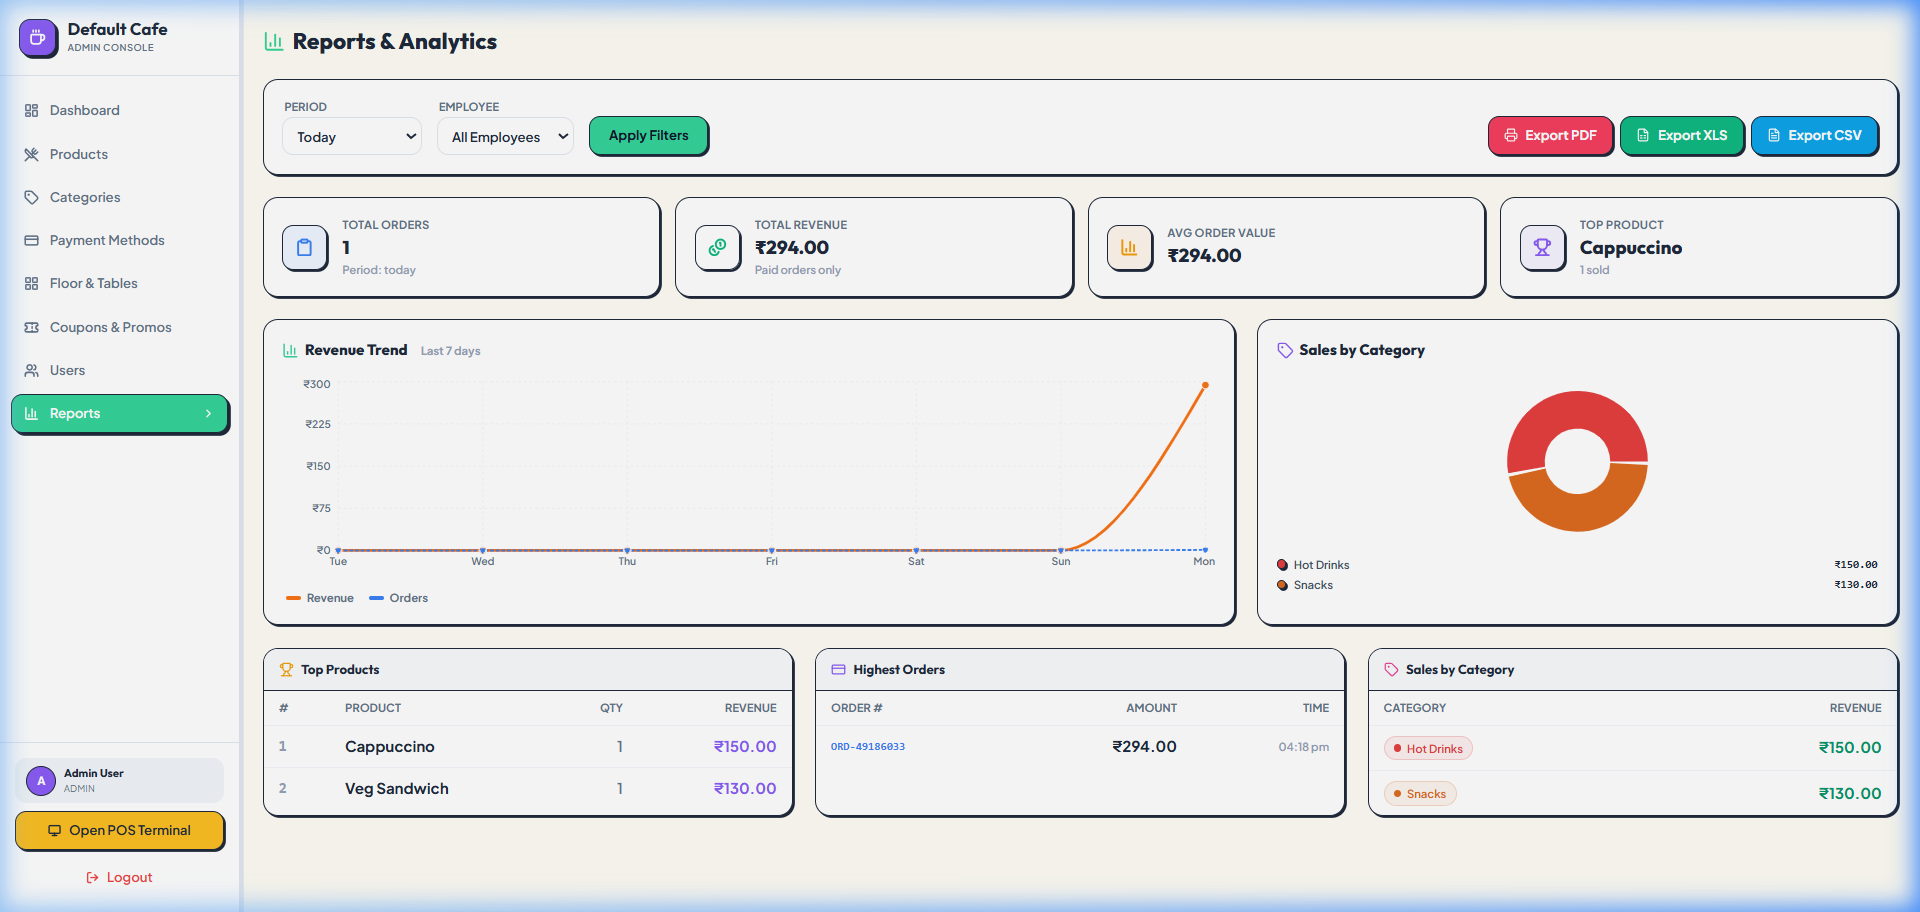
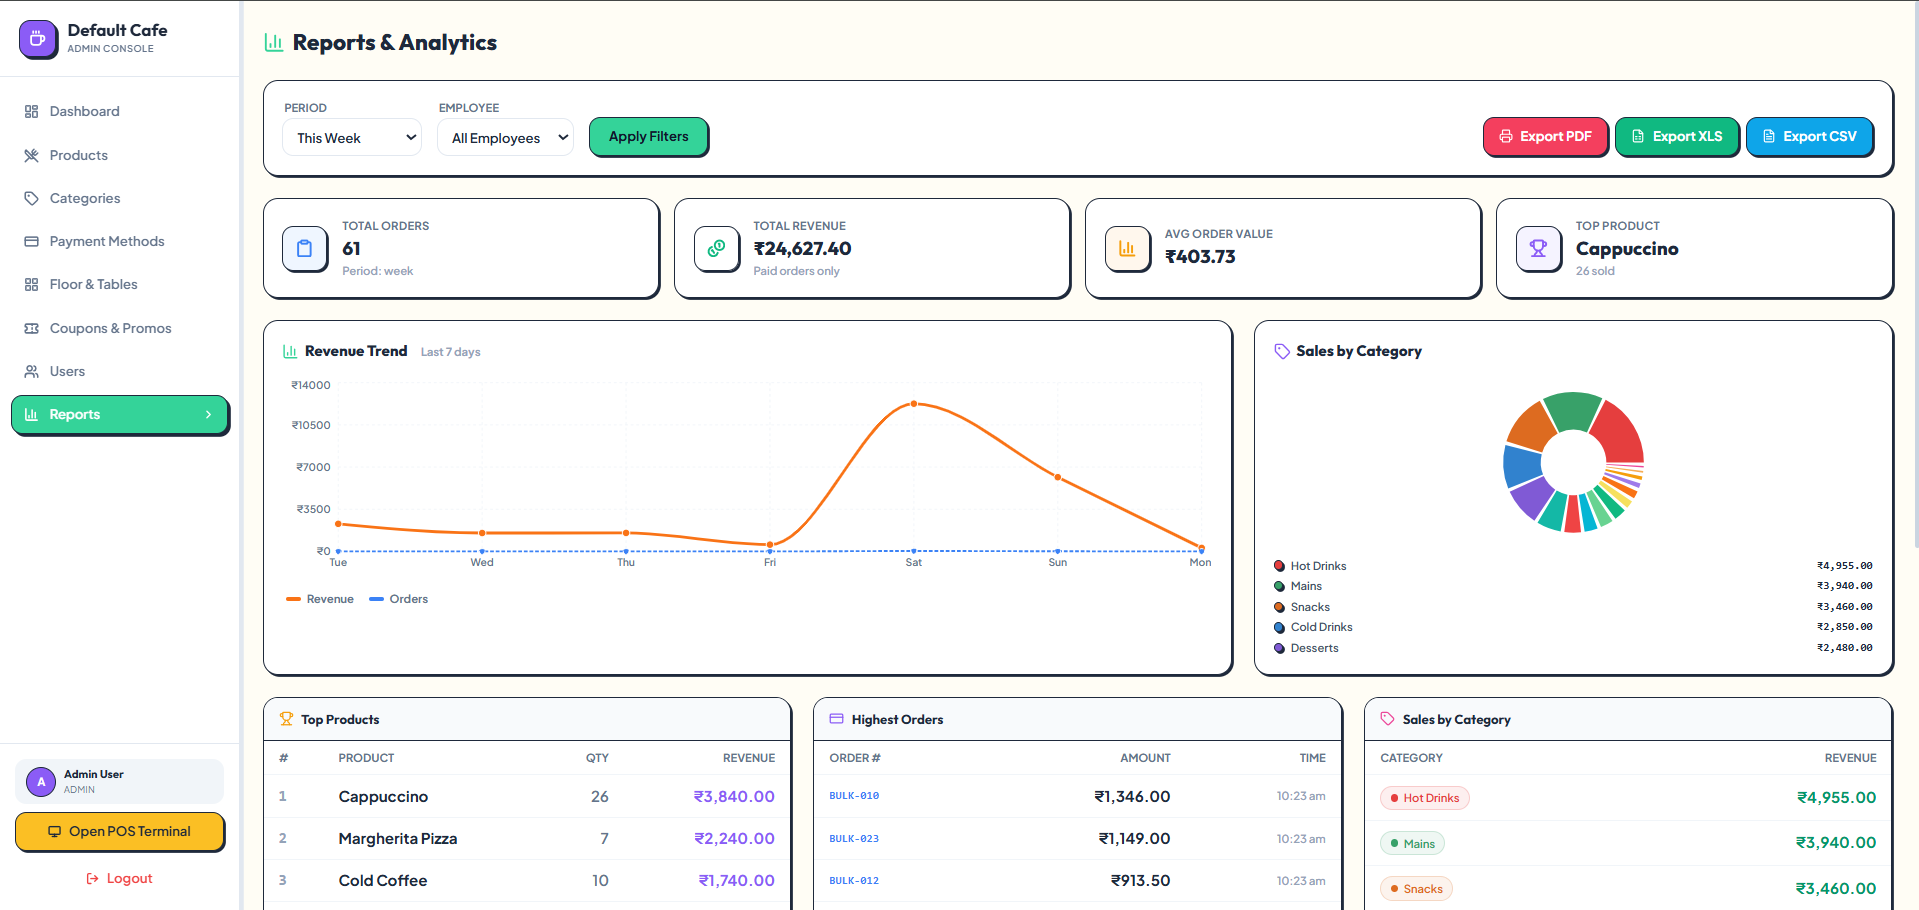
docs: improve screenshots layout in README with grids and interactive sections

diff --git a/README.md b/README.md
@@ -65,172 +65,68 @@ The interface is optimized for all devices, ranging from wide desktop displays t
 
 ---
 
-## Screenshots
+## 📸 Screenshots Overview
+
+<details open>
+<summary><b>🔐 Authentication Portal</b></summary>
+<br>
+
+| 🔑 Login Portal | 📝 User Signup & Registration |
+|:---:|:---:|
+| <img src="screenshots/01_login.png" width="100%" alt="Login Portal"/> | <img src="screenshots/02_signup.png" width="100%" alt="Signup Portal"/> |
+| Central login interface routing employees to cashier POS terminal and admins to backend panel. | Form for registering new users; automatically defaults to EMPLOYEE role. |
+
+</details>
+
+<details open>
+<summary><b>🛒 Cashier POS Terminal Flow</b></summary>
+<br>
+
+| 1️⃣ Table Selection & Occupancy | 2️⃣ POS Empty Dashboard |
+|:---:|:---:|
+| <img src="screenshots/03_table_selection.png" width="100%" alt="Table Selection"/> | <img src="screenshots/04_pos_empty.png" width="100%" alt="POS Empty"/> |
+| Live floor map updating table status in real time via Socket.IO. | Clean slate cashier view with color-coded categories. |
+| **3️⃣ Active Cart with Taxes** | **4️⃣ Stacking Coupons & Auto-Promos** |
+| <img src="screenshots/05_pos_with_cart.png" width="100%" alt="Active Cart"/> | <img src="screenshots/06_pos_coupon.png" width="100%" alt="Coupon Applied"/> |
+| Products grid with inline tax percentages and per-rate line item summaries. | Dynamic calculation with auto-applied promotion rules. |
+| **5️⃣ Direct Kitchen Dispatch** | **6️⃣ Smart Checkout & Payment Modal** |
+| <img src="screenshots/07_kitchen_sent.png" width="100%" alt="Kitchen Sent"/> | <img src="screenshots/08_payment_modal.png" width="100%" alt="Payment Modal"/> |
+| Pushing order to KDS instantly with auditory alert. | Cash, Card, or dynamic UPI QR generation. |
+
+</details>
+
+<details open>
+<summary><b>🍳 Kitchen Display System (KDS)</b></summary>
+<br>
+
+| ⏰ Real-time Kanban Board | 🍳 Preparing Tickets |
+|:---:|:---:|
+| <img src="screenshots/09_kitchen_display.png" width="100%" alt="KDS Incoming"/> | <img src="screenshots/10_kitchen_preparing.png" width="100%" alt="KDS Preparing"/> |
+| Color-coded ticketing column board sorting orders based on wait duration. | Preparing state with interactive checkable items. |
+
+</details>
+
+<details open>
+<summary><b>📊 Admin Backend Panel</b></summary>
+<br>
+
+| 🏠 Admin Dashboard Analytics | 📦 Products & Tax Config |
+|:---:|:---:|
+| <img src="screenshots/11_admin_dashboard.png" width="100%" alt="Dashboard"/> | <img src="screenshots/12_admin_products.png" width="100%" alt="Products"/> |
+| Recharts-driven sales metrics, revenue curves, and category donut chart. | CRUD control panel managing product prices, descriptions, and tax rates. |
+| **🎨 Categories Management** | **💳 Payment Methods Setup** |
+| <img src="screenshots/13_admin_categories.png" width="100%" alt="Categories"/> | <img src="screenshots/14_admin_payment_methods.png" width="100%" alt="Payment Methods"/> |
+| Color-coded tag groups mapped directly to POS tabs. | Enable cash/card or assign a custom UPI alias/address. |
+| **🪑 Floor Plans & Table Layout** | **🎫 Coupons & Promotions Editor** |
+| <img src="screenshots/15_admin_tables.png" width="100%" alt="Tables"/> | <img src="screenshots/16_admin_coupons.png" width="100%" alt="Coupons"/> |
+| Customize floor labels and table coordinates. | Setup flat or percentage discount triggers. |
+| **👥 User & Role Administration** | **📑 Financial Reports & CSV Export** |
+| <img src="screenshots/17_admin_users.png" width="100%" alt="Users"/> | <img src="screenshots/18_admin_reports.png" width="100%" alt="Reports"/> |
+| Manage access credentials and toggle user activity. | View sales logs and download analytical archives. |
+
+</details>
 
-### Authentication
 
-**Login Portal**
-
-![Login Portal](screenshots/01_login.png)
-
-The central authentication page for all roles. Employees are redirected to the POS terminal; admins are redirected to the backend dashboard.
-
----
-
-**Signup / Registration**
-
-![Signup Page](screenshots/02_signup.png)
-
-New account registration interface. Accounts are created with the EMPLOYEE role by default; the ADMIN role is assigned manually in the Users management panel.
-
----
-
-### Employee — POS Terminal Flow
-
-**Step 1: Table / Floor Selection**
-
-![Table Selection](screenshots/03_table_selection.png)
-
-On login, employees are presented with a live floor map. Table occupancy status is updated in real time via Socket.IO. Employees select an available table to begin a new order session.
-
----
-
-**Step 2: POS Terminal — Empty Cart**
-
-![POS Terminal - Empty](screenshots/04_pos_empty.png)
-
-The core POS interface. The left side shows a product grid organized by category tabs with color-coded labels. The right side shows the live order cart tied to the selected table.
-
----
-
-**Step 3: POS Terminal — Active Cart (with per-product tax)**
-
-![POS Terminal - Active Cart](screenshots/05_pos_with_cart.png)
-
-Items are added to the cart by clicking product cards. Quantities can be adjusted inline. Each cart item shows its **individual tax rate inline** (e.g., `· 10% Tax (₹12.00)`). The totals section shows a **separate tax line per rate** (e.g., `Tax (5%)` and `Tax (10%)`) instead of a single blended rate. The cart automatically evaluates and applies any eligible promotional rules in real time.
-
----
-
-**Step 4: Coupon Code Applied**
-
-![POS Terminal - Coupon Applied](screenshots/06_pos_coupon.png)
-
-The coupon entry field validates codes against the database. When a valid code is entered (e.g., `WELCOME20`), the discount is stacked on top of any auto-applied promotions, and the order summary reflects the updated total. Tax is recalculated proportionally after the discount is applied.
-
----
-
-**Step 5: Order Sent to Kitchen**
-
-![Order Sent to Kitchen](screenshots/07_kitchen_sent.png)
-
-Clicking the "Kitchen" button transmits the order via Socket.IO to the KDS instantly. The order status updates to "Cooking" on the POS and the ticket appears on all connected kitchen displays without any page refresh.
-
----
-
-**Step 6: Payment / Checkout Modal**
-
-![Payment Modal](screenshots/08_payment_modal.png)
-
-The checkout modal supports three payment methods:
-- **Cash**: Accepts tender amount and displays change due.
-- **Card**: Standard card payment confirmation flow.
-- **UPI**: Generates a QR code from the configured UPI handle for cashless payments.
-
-After payment confirmation, a receipt is generated with options to Print, Email, or start a New Order.
-
----
-
-### Kitchen Display System
-
-**KDS — Incoming Orders (To Cook)**
-
-![Kitchen Display - Incoming](screenshots/09_kitchen_display.png)
-
-The KDS organizes tickets in a three-column Kanban board: **To Cook**, **Preparing**, and **Completed**. Each ticket shows the table number, order items, and a per-item completion checklist. Ticket borders change color based on age — green (< 10 min), yellow (10–15 min), red pulsing (> 15 min).
-
----
-
-**KDS — Ticket in Preparing State**
-
-![Kitchen Display - Preparing](screenshots/10_kitchen_preparing.png)
-
-Clicking the status advancement button moves a ticket from "To Cook" to "Preparing". The POS terminal and admin dashboard reflect this status update in real time. Audio notifications play when new tickets arrive.
-
----
-
-### Admin — Backend Panel
-
-**Dashboard — Sales Overview**
-
-![Admin Dashboard](screenshots/11_admin_dashboard.png)
-
-The admin dashboard provides a live summary of today's sales sessions, revenue, and order counts. Key metrics are displayed as stat cards with trend indicators. Recharts-powered visualizations show revenue trends (line chart) and category distribution (donut chart).
-
----
-
-**Products Management**
-
-![Admin Products](screenshots/12_admin_products.png)
-
-Full CRUD interface for managing menu items. Each product has a name, description, price, category, **individual tax rate (%)**, and availability toggle. Products are searchable and filterable by category. Inline editing supports quick updates.
-
----
-
-**Categories Management**
-
-![Admin Categories](screenshots/13_admin_categories.png)
-
-Category management page for organizing the product menu. Each category has a name, color label (rendered as tabs on the POS terminal), and an active/inactive toggle.
-
----
-
-**Payment Methods**
-
-![Admin Payment Methods](screenshots/14_admin_payment_methods.png)
-
-Configure which payment options are available at checkout. For UPI, a QR code image or UPI handle can be uploaded and previewed. Payment methods can be enabled or disabled individually without affecting existing transaction records.
-
----
-
-**Floor & Table Management**
-
-![Admin Tables](screenshots/15_admin_tables.png)
-
-Create and manage floors and tables. Each table has a name/number and belongs to a floor section. Tables appear on the employee's floor selection popup. Occupied tables are visually distinguished from available ones in real time.
-
----
-
-**Coupons & Promotions**
-
-![Admin Coupons](screenshots/16_admin_coupons.png)
-
-Two-part discounting system:
-- **Coupons**: Fixed or percentage discounts applied via a code entered by the employee at checkout.
-- **Promotions**: Conditional rules (e.g., "apply 5% off for orders above Rs. 300") evaluated automatically when cart conditions are met.
-
-Both systems stack on top of each other and are configurable with validity windows and usage limits.
-
----
-
-**User Management**
-
-![Admin Users](screenshots/17_admin_users.png)
-
-View and manage all registered accounts. Admins can change user roles (ADMIN / EMPLOYEE), reset passwords, deactivate accounts, and create new users directly from this interface.
-
----
-
-**Reports & Analytics**
-
-![Admin Reports](screenshots/18_admin_reports.png)
-
-The reports module provides:
-- **Revenue Overview**: Line chart of daily/weekly revenue trends.
-- **Category Breakdown**: Donut chart showing sales distribution by product category.
-- **Session Logs**: Tabular list of completed order sessions with totals.
-- **Export**: Download full session and revenue data as CSV or PDF for offline analysis.
-
----
 
 ## Feature Reference
 